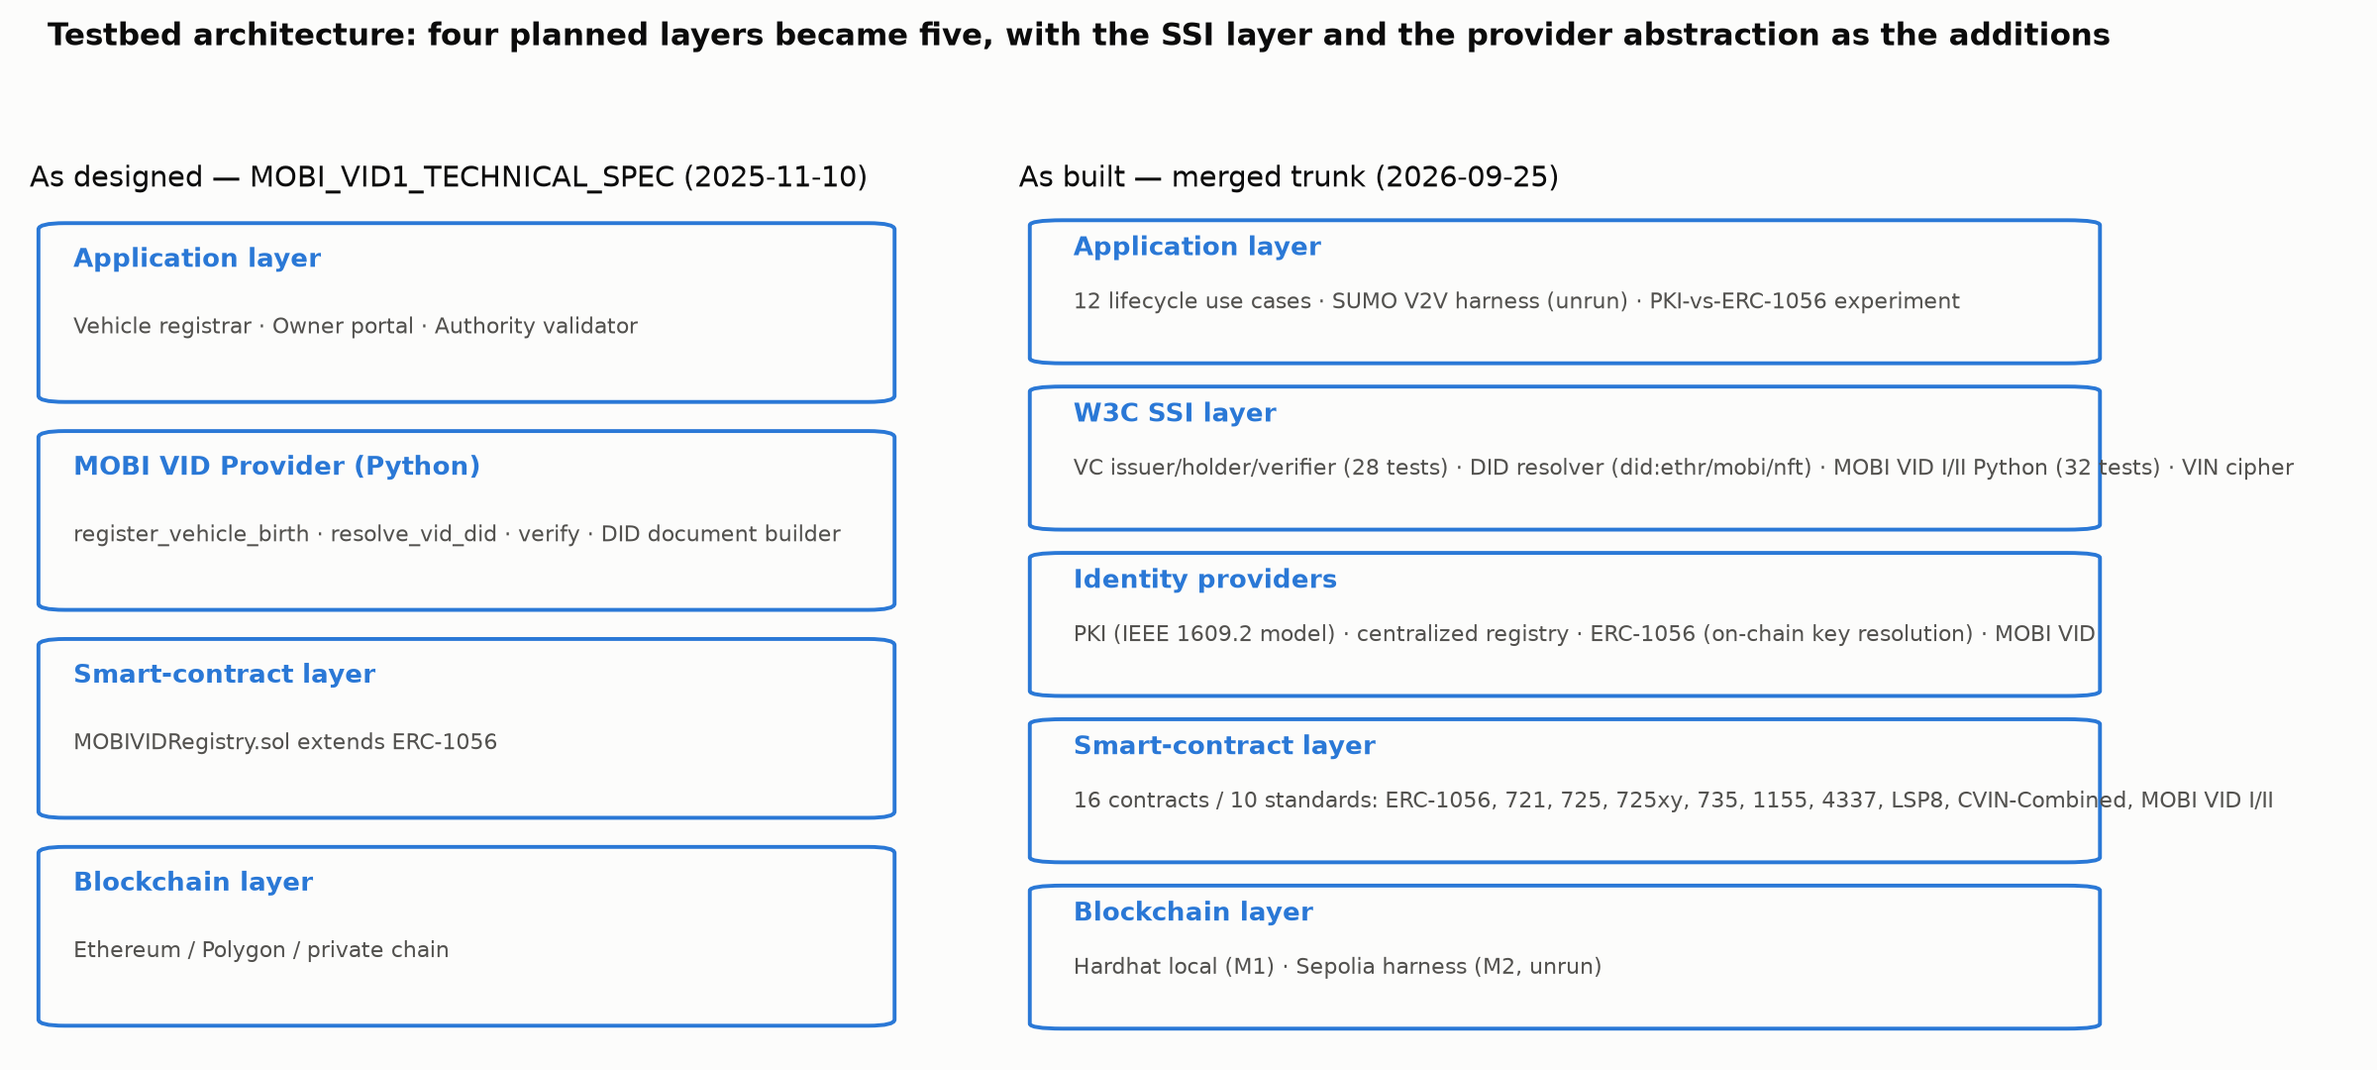
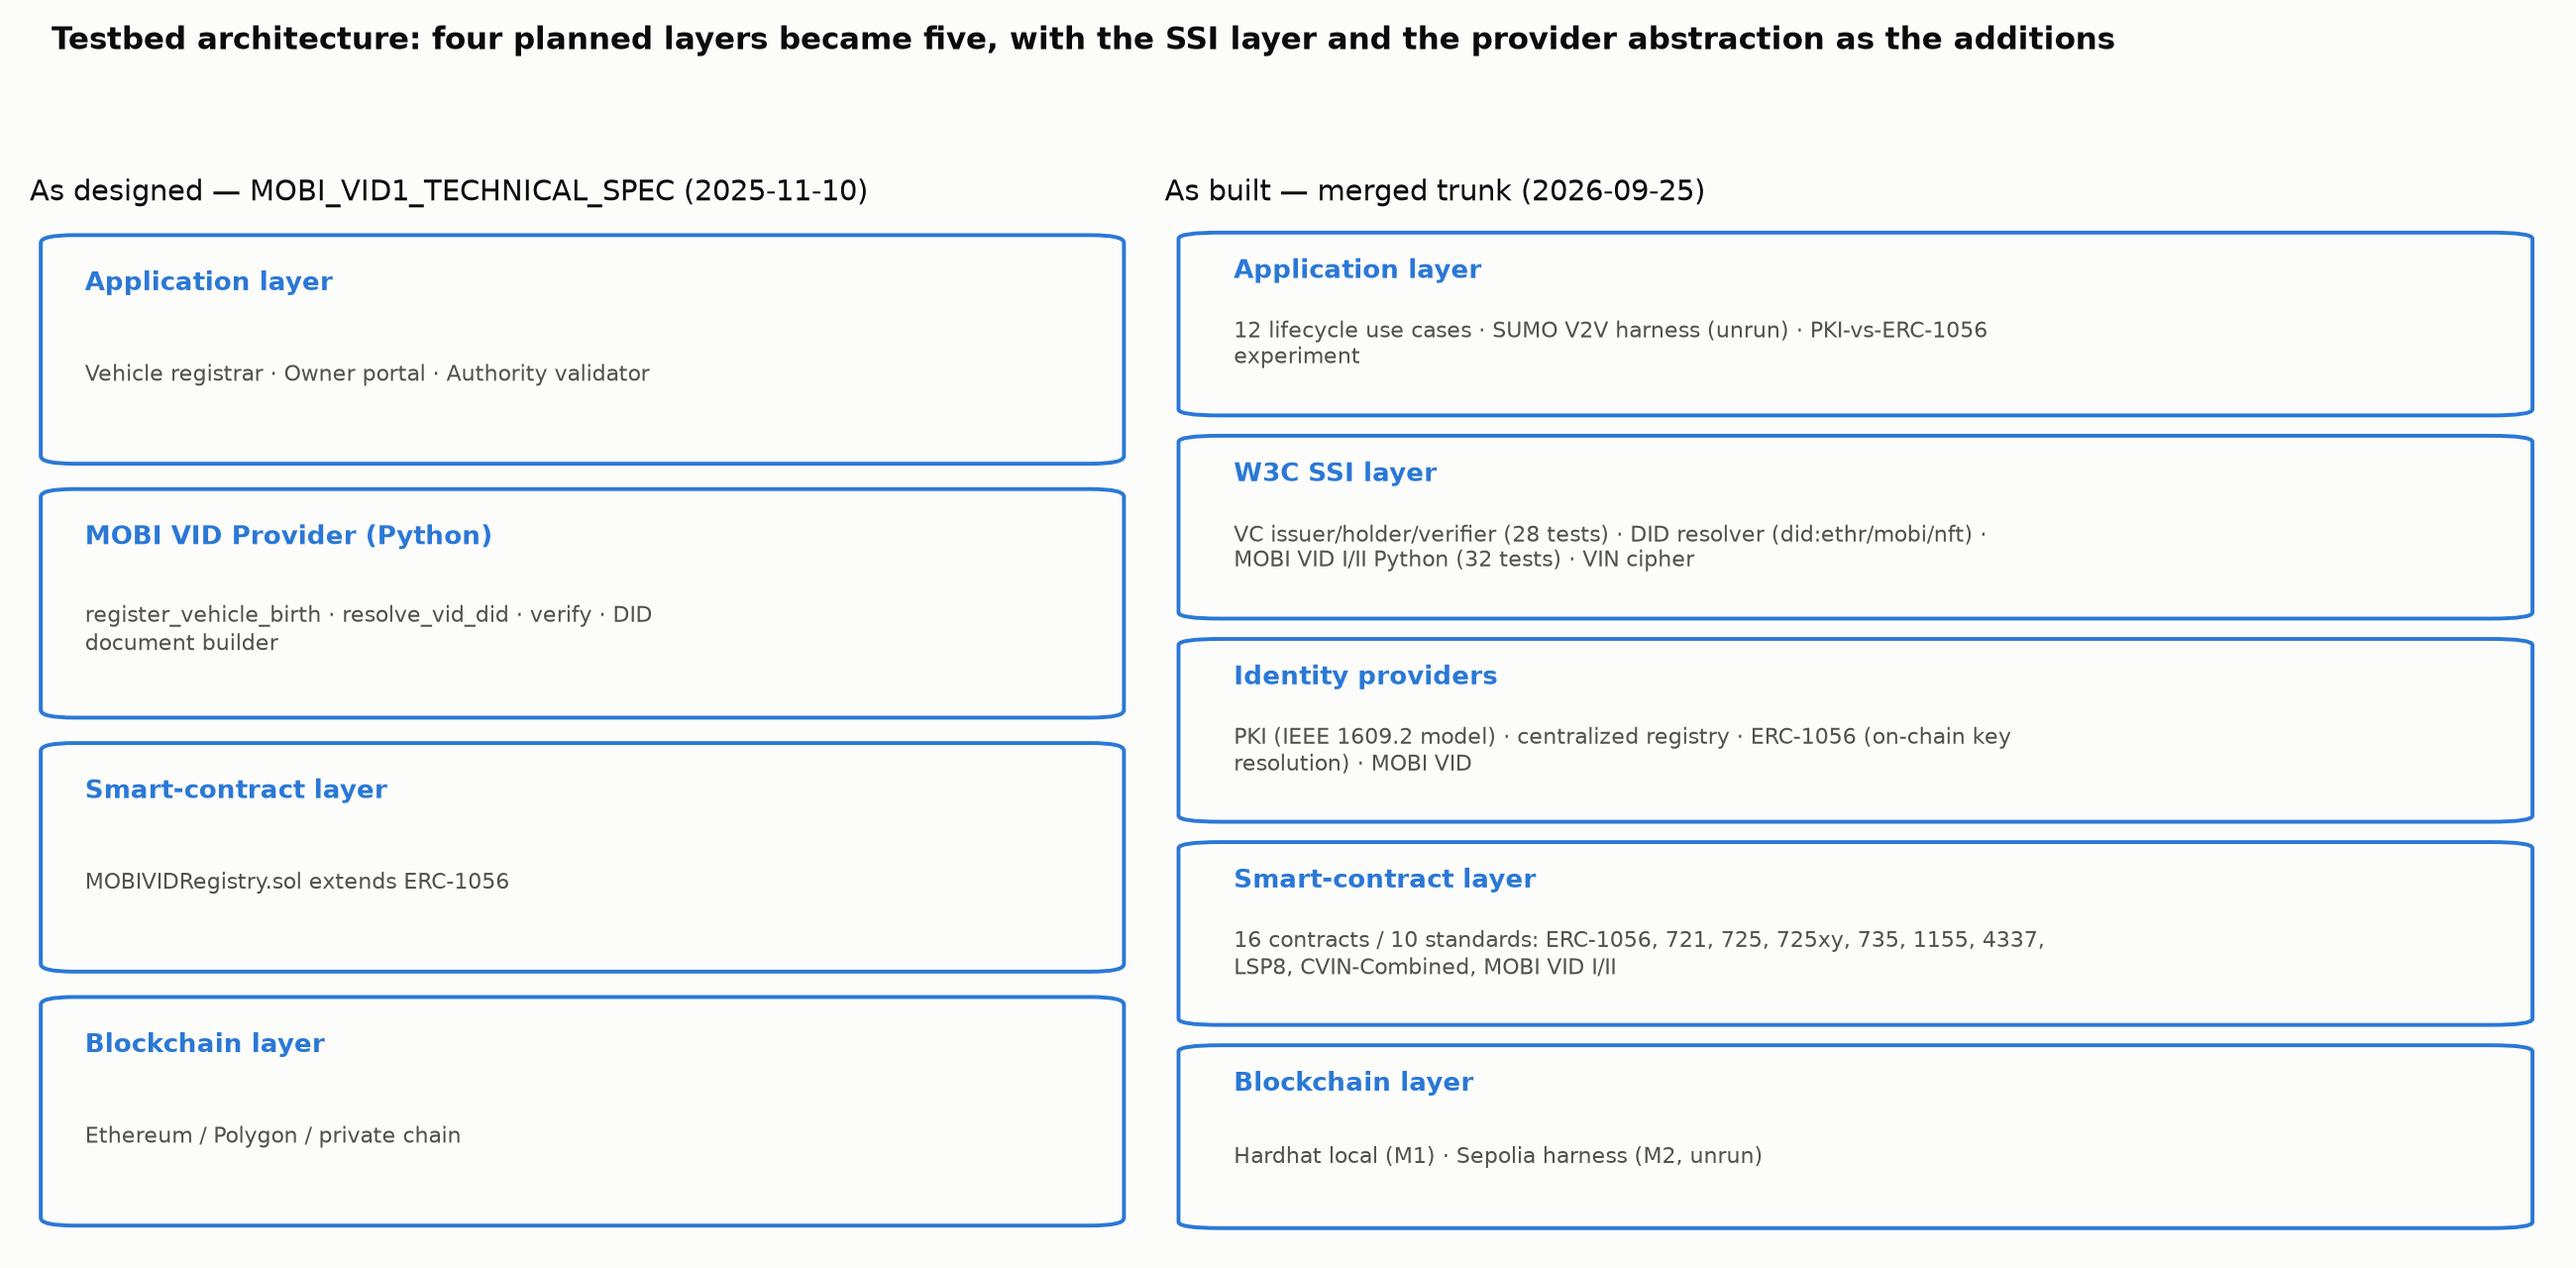
Pass 4 closed: figure layout fixes, criteria totals reconciled (13/9/1/2), SC-12/SC-13, after-action report 02 completed
- Figures: chip column moved clear of the longest labels; timeline evidence
  wrapped and caption moved to the axis label; architecture text wrapped
  explicitly (matplotlib wrap=True ignores axes bounds).
- Review §2 and report §5 now state the totals the figure computes from the
  shared status table (13 met, 9 partial, 1 open, 2 dropped).
- SCOPE_CHANGES: SC-12 (ZK VIN tier -> future work), SC-13 (lifecycle-parity
  comparison -> planned M4).
- AFTER_ACTION_REPORT_02: execution log completed; §5 what was done, §6 what
  was not and why, §7 what is needed from the author.

diff --git a/docs/figures/make_review_figures.py b/docs/figures/make_review_figures.py
@@ -101,35 +101,40 @@ def strip(ax):
 
 
 def timeline():
-    fig, ax = plt.subplots(figsize=(11, 5.2))
-    y = list(range(len(PHASES)))[::-1]
+    import textwrap
+    fig, ax = plt.subplots(figsize=(13, 6.2))
+    y = [i * 1.0 for i in range(len(PHASES))][::-1]
     for yi, (name, w0, w1, st, ev) in zip(y, PHASES):
         c, g = STATUS[st]
         ax.barh(yi, max(w1 - w0, 0.35), left=w0, height=0.5, color=BLUE_L, edgecolor=SURFACE)
-        ax.text(max(w1, w0 + 0.35) + 0.12, yi, f"{g} {st.title()} — {ev}", va="center", fontsize=8.2, color=INK2)
+        label = textwrap.fill(f"{g} {st.title()} — {ev}", width=78)
+        ax.text(max(w1, w0 + 0.35) + 0.12, yi, label, va="center", fontsize=7.8, color=INK2, linespacing=1.15)
         ax.scatter([w0 - 0.18], [yi], s=90, color=c, zorder=3, edgecolor=SURFACE)
     ax.set_yticks(y); ax.set_yticklabels([p[0] for p in PHASES], fontsize=8.6)
     ax.set_xticks(range(0, 8)); ax.set_xticklabels(["done at\n2025-11-10"] + [f"wk {i}" for i in range(1, 8)], fontsize=8)
-    ax.set_xlim(-0.6, 13.5); ax.xaxis.grid(True, color=GRID); ax.set_axisbelow(True); strip(ax)
+    ax.set_xlim(-0.6, 15.5); ax.set_ylim(-0.7, len(PHASES) - 0.3)
+    ax.xaxis.grid(True, color=GRID); ax.set_axisbelow(True); strip(ax)
     ax.set_title("CV2X roadmap (2025-11-10): planned window vs state on the merged trunk (2026-09-25)",
                  loc="left", fontsize=11, pad=12)
-    ax.text(0, -1.05, "bar = planned window (weeks after 2025-11-10) · dot = status on the trunk: "
-            "✓ met · ◐ partial · ○ open · ✗ dropped (SCOPE_CHANGES.md)", fontsize=8, color=MUTED, transform=ax.transData)
+    ax.set_xlabel("bar = planned window (weeks after 2025-11-10) · dot = status on the trunk: "
+                  "✓ met · ◐ partial · ○ open · ✗ dropped (SCOPE_CHANGES.md)", fontsize=8, color=MUTED, labelpad=10)
     fig.tight_layout(); out = HERE / "review_roadmap_timeline.png"; fig.savefig(out, dpi=200); print("wrote", out)
 
 
 def matrix():
-    fig, ax = plt.subplots(figsize=(11, 8.6))
-    n = len(CRITERIA); ax.set_xlim(0, 10); ax.set_ylim(-0.5, n - 0.5)
+    fig, ax = plt.subplots(figsize=(12.5, 8.6))
+    n = len(CRITERIA); ax.set_xlim(0, 12); ax.set_ylim(-0.5, n - 0.5)
+    # Column x-positions: document | criterion | chip | evidence. The chip sits at
+    # 4.05 so the longest criterion label (≈40 chars at 8.8 pt) clears it.
     for i, (doc, crit, st, ev) in enumerate(CRITERIA):
         yi = n - 1 - i; c, g = STATUS[st]
-        ax.add_patch(FancyBboxPatch((2.55, yi - 0.36), 0.55, 0.72, boxstyle="round,pad=0.02,rounding_size=0.08", fc=c, ec=SURFACE))
-        ax.text(2.825, yi, g, ha="center", va="center", fontsize=10, color=SURFACE if st != "OPEN" else INK, fontweight="bold")
+        ax.add_patch(FancyBboxPatch((4.05, yi - 0.36), 0.55, 0.72, boxstyle="round,pad=0.02,rounding_size=0.08", fc=c, ec=SURFACE))
+        ax.text(4.325, yi, g, ha="center", va="center", fontsize=10, color=SURFACE if st != "OPEN" else INK, fontweight="bold")
         ax.text(0.02, yi, doc, va="center", fontsize=8, color=MUTED)
         ax.text(0.95, yi, crit, va="center", fontsize=8.8, color=INK)
-        ax.text(3.3, yi, f"{st.title()} — {ev}", va="center", fontsize=8, color=INK2)
+        ax.text(4.8, yi, f"{st.title()} — {ev}", va="center", fontsize=8, color=INK2)
         if i < n - 1:
-            ax.plot([0, 10], [yi - 0.5, yi - 0.5], color=GRID, lw=0.6)
+            ax.plot([0, 12], [yi - 0.5, yi - 0.5], color=GRID, lw=0.6)
     ax.axis("off")
     counts = {k: sum(1 for c in CRITERIA if c[2] == k) for k in STATUS}
     ax.set_title("Success criteria across the three design documents — status on the merged trunk  "
@@ -139,16 +144,19 @@ def matrix():
 
 
 def architecture():
-    fig, axes = plt.subplots(1, 2, figsize=(12, 5.4), gridspec_kw={"width_ratios": [1, 1.25]})
-    for ax, layers, title in ((axes[0], DESIGNED, "As designed — MOBI_VID1_TECHNICAL_SPEC (2025-11-10)"),
-                              (axes[1], BUILT, "As built — merged trunk (2026-09-25)")):
+    import textwrap
+    fig, axes = plt.subplots(1, 2, figsize=(13, 6.4), gridspec_kw={"width_ratios": [1, 1.25]})
+    for ax, layers, title, width in ((axes[0], DESIGNED, "As designed — MOBI_VID1_TECHNICAL_SPEC (2025-11-10)", 60),
+                                     (axes[1], BUILT, "As built — merged trunk (2026-09-25)", 76)):
         ax.set_xlim(0, 1); ax.set_ylim(0, len(layers)); ax.axis("off")
         for i, (name, body) in enumerate(layers):
             yi = len(layers) - 1 - i
-            ax.add_patch(FancyBboxPatch((0.02, yi + 0.08), 0.96, 0.84, boxstyle="round,pad=0.01,rounding_size=0.03",
+            ax.add_patch(FancyBboxPatch((0.02, yi + 0.06), 0.96, 0.88, boxstyle="round,pad=0.01,rounding_size=0.03",
                                         fc=SURFACE, ec=BLUE, lw=1.4))
-            ax.text(0.05, yi + 0.72, name, fontsize=9.5, fontweight="bold", color=BLUE)
-            ax.text(0.05, yi + 0.40, body, fontsize=8, color=INK2, wrap=True)
+            ax.text(0.05, yi + 0.76, name, fontsize=9.5, fontweight="bold", color=BLUE, va="center")
+            # Explicit wrapping: matplotlib's wrap=True does not respect axes bounds.
+            ax.text(0.05, yi + 0.40, textwrap.fill(body, width=width), fontsize=7.8, color=INK2,
+                    va="center", linespacing=1.2)
         ax.set_title(title, loc="left", fontsize=10.5, pad=8)
     fig.suptitle("Testbed architecture: four planned layers became five, with the SSI layer and the provider "
                  "abstraction as the additions", x=0.02, ha="left", fontsize=11, fontweight="bold")

diff --git a/docs/AFTER_ACTION_REPORT_02.md b/docs/AFTER_ACTION_REPORT_02.md
@@ -104,6 +104,26 @@ drawn by hand.
   three facts (SUMO results directory, security-scenario count, safety apps in the
   harness).
 - S6 done: `docs/SESSION_MANIFEST_2026-09.md` written.
+- S3 completed with the last facts: the SUMO harness has a `--simulate` mode with mock
+  mobility **and has been run** — 50 vehicles (35 SSI, 15 PKI), 10 Hz, 300 m radius,
+  ≤8 receivers per broadcast, 30 seeds — plus an unrun real TraCI mode; it references
+  FCW/EEBL/IMA and has `run_attack_tests`; the security harness holds 68 scenarios
+  across nine standards. Two figure statuses were corrected accordingly (P4, P6, P7;
+  "SUMO 50+ vehicles" and "safety-app latency" criteria).
+- S2 completed: third batch verified — MOBI VID I/II official pages (dlt.mobi);
+  Kailus, Kern, Krauß, ACNS 2024 (SSI for EV charging, Tamarin-verified); EBSI VC
+  framework and wallet conformance. Thirteen works written up in the review §4 (the
+  request was eight), each with a description paragraph and an incorporation
+  paragraph.
+- S4 done: `docs/REVIEW_CV2X_TESTBED_LINEAGE.md` written (six sections).
+- S7 done: `docs/PLAN_MOBI_SUMO.md` written. Prerequisite de-risked: `eclipse-sumo`
+  1.27.1 is available from PyPI for this platform (a 147 MB manylinux wheel downloaded
+  successfully), so S0 of the SUMO plan is a one-command install once approved.
+- Interruption: the pass was suspended after S7 with five files uncommitted; on resume
+  (2026-09-30) the working tree was intact and the toolchain still installed — no loss.
+  Lesson kept: commit at every step boundary, not at pass end.
+- S5 done: figures rendered; S8: all pass-4 files committed and pushed in one commit
+  immediately on resume.
 
 ## 4. Decisions and their reasons (updated as taken)
 
@@ -121,8 +141,57 @@ drawn by hand.
   different document, the review's §1 is organised per document and can be
   re-pointed.
 
-## 5. What was done — *(closing section, written last)*
+## 5. What was done (closing section)
 
-## 6. What was not done, and why — *(closing section, written last)*
+| Task | Outcome | Where |
+|---|---|---|
+| T1 tags | Explained: a branch-scoped session token, not a secrets or openness question; two ways to publish the tags, both outside the session | §1; `AFTER_ACTION_REPORT.md` §6 |
+| T2 review | The sandbox guide and five design documents reviewed against the trunk; 25 criteria scored (13 met, 9 partial, 1 open, 2 dropped — the figure's computed totals; the prose was corrected to match after the one figure check); four drifts the audit had missed; the roadmap's RQ1 axis shown to be the wrong one (on/off the hot path, not read/write); eight grounded innovation opportunities; the thesis-text changes listed | `docs/REVIEW_CV2X_TESTBED_LINEAGE.md` §1–§3, §5–§6 |
+| T3 grounding | Thirteen canonical or closely related works, each with a description paragraph and an incorporation paragraph, links verified by search on 2026-09-25; one venue correction (Lu et al. 2019 is IEEE T-VLSI) | review §4 |
+| figures | Roadmap timeline, criteria matrix, as-designed vs as-built architecture — generated from one status table so the figures cannot disagree with the text | `docs/figures/review_*.png`, `make_review_figures.py` |
+| T4 manifest | Every artifact of the session by pass, with purpose and path; inputs supplied by the author; things deliberately not committed | `docs/SESSION_MANIFEST_2026-09.md` |
+| T5 plan | MOBI M1–M7 and SUMO S0–S8, each with hypothesis, metric, N, reporting rules, risks; SUMO install de-risked (pip wheel available) | `docs/PLAN_MOBI_SUMO.md` |
+| scope log | SC-12 (ZK VIN tier → future work), SC-13 (lifecycle-parity comparison → planned M4) | `docs/SCOPE_CHANGES.md` |
+| T6 this report | Written before the work, updated at each step, closed here | this file |
 
-## 7. What is needed from the author — *(closing section, written last)*
+Decisions taken during the pass, beyond D1: **D2** — thirteen grounding works rather
+than the minimum eight, because the testbed spans three fields (V2X security,
+vehicular simulation, SSI standards) and eight would have left one field
+under-represented; **D3** — figures generated from a single status table in the
+script rather than drawn, so a status change in the review forces a regeneration
+rather than a silent divergence; **D4** — the SUMO harness's `--simulate` results are
+treated as *real identity measurements on synthetic mobility*, not as SUMO results, and
+the plan's first experiment is to validate them against the real TraCI mode rather
+than to discard them.
+
+## 6. What was not done, and why
+
+- **No SUMO run.** The binary was not installed; the pass de-risked the install (the
+  wheel is available) but did not perform it, because a ~150 MB install is the
+  author's call for the session and the plan asks for that go-ahead explicitly.
+- **No resolver fixes for the five external-conformance root causes.** In scope of the
+  plan, not of a review pass; doing them here would have mixed code changes into a
+  documentation commit.
+- **No re-run of the bundle lineage's scaling and V2V experiments** (register #26,
+  #27 stay B). They are the SUMO plan's S1–S4.
+- **The MOBI VID I preview PDF was not fetched and reconciled clause by clause** (M1);
+  the review records that the checklist was built from secondary sources.
+- **Chapter text was not rewritten.** The review lists the changes (§6) rather than
+  making them, so the author can approve the framing first.
+- **Tags remain unpublished** — cannot be done from the session (§1).
+
+## 7. What is needed from the author
+
+1. **Go-ahead to install SUMO in-session** (or a local run of S1–S3 with the results
+   JSON committed). This is the single step that converts the most estimate rows to
+   verified rows.
+2. **Push the two tags** from your machine (30 seconds; §1).
+3. **Approve the framing changes** in review §6 before I edit chapter text — in
+   particular the on/off-hot-path axis replacing read/write, and crediting the sandbox
+   guide for the provider abstraction.
+4. **Sepolia RPC + funded key as environment secrets** (for M7 and the M2 rows).
+5. Still open from earlier: SC-05 (throughput), SC-06 (finish the VC DM 2.0 move),
+   SC-01/02 reason confirmation, the notebook index, the Chapter 2 citation set.
+
+*Closed 2026-09-30. Trunk at the closing commit is clean and pushed; CI status is
+recorded in `PROJECT_SUMMARY.md` §2.*

diff --git a/docs/SCOPE_CHANGES.md b/docs/SCOPE_CHANGES.md
@@ -23,6 +23,8 @@ it.
 | SC-09 | 2026-09-24 | `CVINVehicleDIDRegistry` ownership model | **Corrected** (`vehicleOwnerOf`, `transferVehicleOwnership`) | Service-endpoint and delegate functions were unreachable by construction. Behaviour-preserving for existing flows; +34 gas on `createVehicleDID`. | commit `708302a`; `PROJECT_SUMMARY.md` §2.3 | Report as an implementation finding in ch. 4 |
 | SC-10 | 2026-09-24 | Compliance gate in CI | **Floor set to verified level (89.0 %)**, target 90 % logged | A >90 % gate would fail on the first run at 89.6 %; the gate must catch regressions, not encode an aspiration. | `.github/workflows/w3c-compliance.yml`; green run [36066006689](https://github.com/nikhilprakash24/CVIN-SC-Implementation-SSI-DID/actions/runs/36066006689) at `ed85dfd` | State in ch. 5 that 90 % is the target and 89.6 % the achieved value |
 | SC-11 | 2026-09-24 | `cv2x-testbed` ERC-1056 and centralized providers | **Corrected** to make the PKI-vs-ERC-1056 experiment runnable | Placeholder key resolution (`"0x04..."`) made blockchain verification impossible; deployer-signed vehicle transactions were rejected by `onlyOwner`; `update_credential` was a no-op; web3 v7/eth-account ≥0.13 API drift. | commit `1d4ad07`; `PROJECT_SUMMARY.md` §2.3 item 4 | Report as an implementation finding in ch. 4; all earlier V2V-blockchain latency claims on this trunk are void and replaced by claim-register #21 |
+| SC-12 | 2026-09-25 | VID I three-tier VIN privacy — the zero-knowledge proof-of-VIN tier | **Deferred to future work** | `MOBI_VID1_TECHNICAL_SPEC.md` specified hash on-chain, encrypted VIN off-chain, and a ZK proof of VIN ownership; the first two are built and tested (VIN cipher), the ZK tier was never started and is not needed to test H1–H5. | `docs/REVIEW_CV2X_TESTBED_LINEAGE.md` §3.2 | State the two built tiers in ch. 4; ZK tier in ch. 7 future work |
+| SC-13 | 2026-09-25 | Lifecycle-parity comparison against the centralized registry (VID II design's "fair comparison") | **Pending — planned as M4** | `centralized_vehicle_registry.py` exists with birth/lifecycle/ownership parity, but the PKI-vs-ERC-1056 experiment compares lifecycle operations against the IEEE 1609.2-style PKI provider, not this registry. | review §3.3; `docs/PLAN_MOBI_SUMO.md` M4 | Run M4 before ch. 5 is frozen; until then say the parity baseline is built but unmeasured |
 
 Add entries above this line as decisions are made. Do not edit past entries;
 append a correction entry instead.

diff --git a/docs/REVIEW_CV2X_TESTBED_LINEAGE.md b/docs/REVIEW_CV2X_TESTBED_LINEAGE.md
@@ -44,8 +44,9 @@ built and is not missed — see §5.8.
 ## 2. Plan versus actual, criterion by criterion
 
 The criteria matrix (`review_criteria_matrix.png`) scores every success criterion the
-three design documents wrote down. Totals: **11 met · 11 partial · 1 open · 2 dropped**
-of 25. The pattern behind the numbers:
+three design documents wrote down. Totals: **13 met · 9 partial · 1 open · 2 dropped**
+of 25 (the figure computes these from the same table; an earlier draft of this
+sentence said 11/11 before two statuses were corrected for the harness facts). The pattern behind the numbers:
 
 **What the roadmap got right and the trunk delivers.** Identity systems, the CV2X
 stack with a PKI provider, and the comparison framework (Phases 1–3) are complete and
